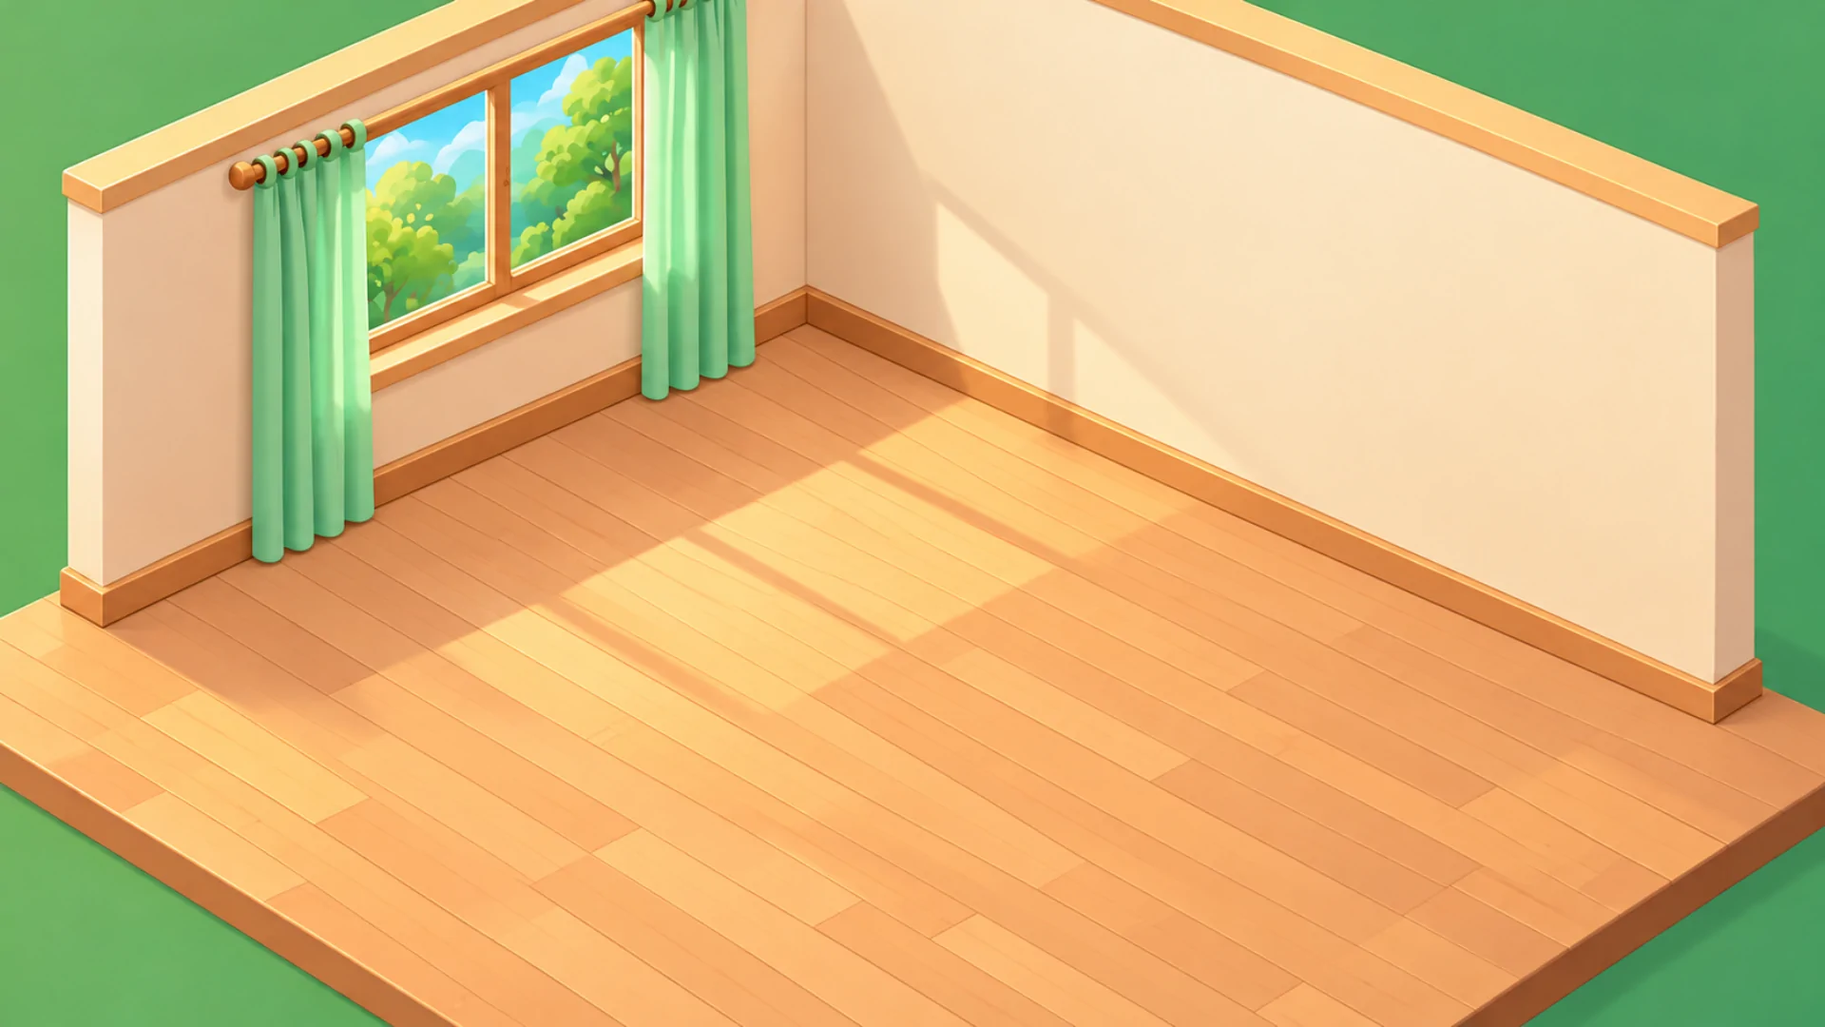
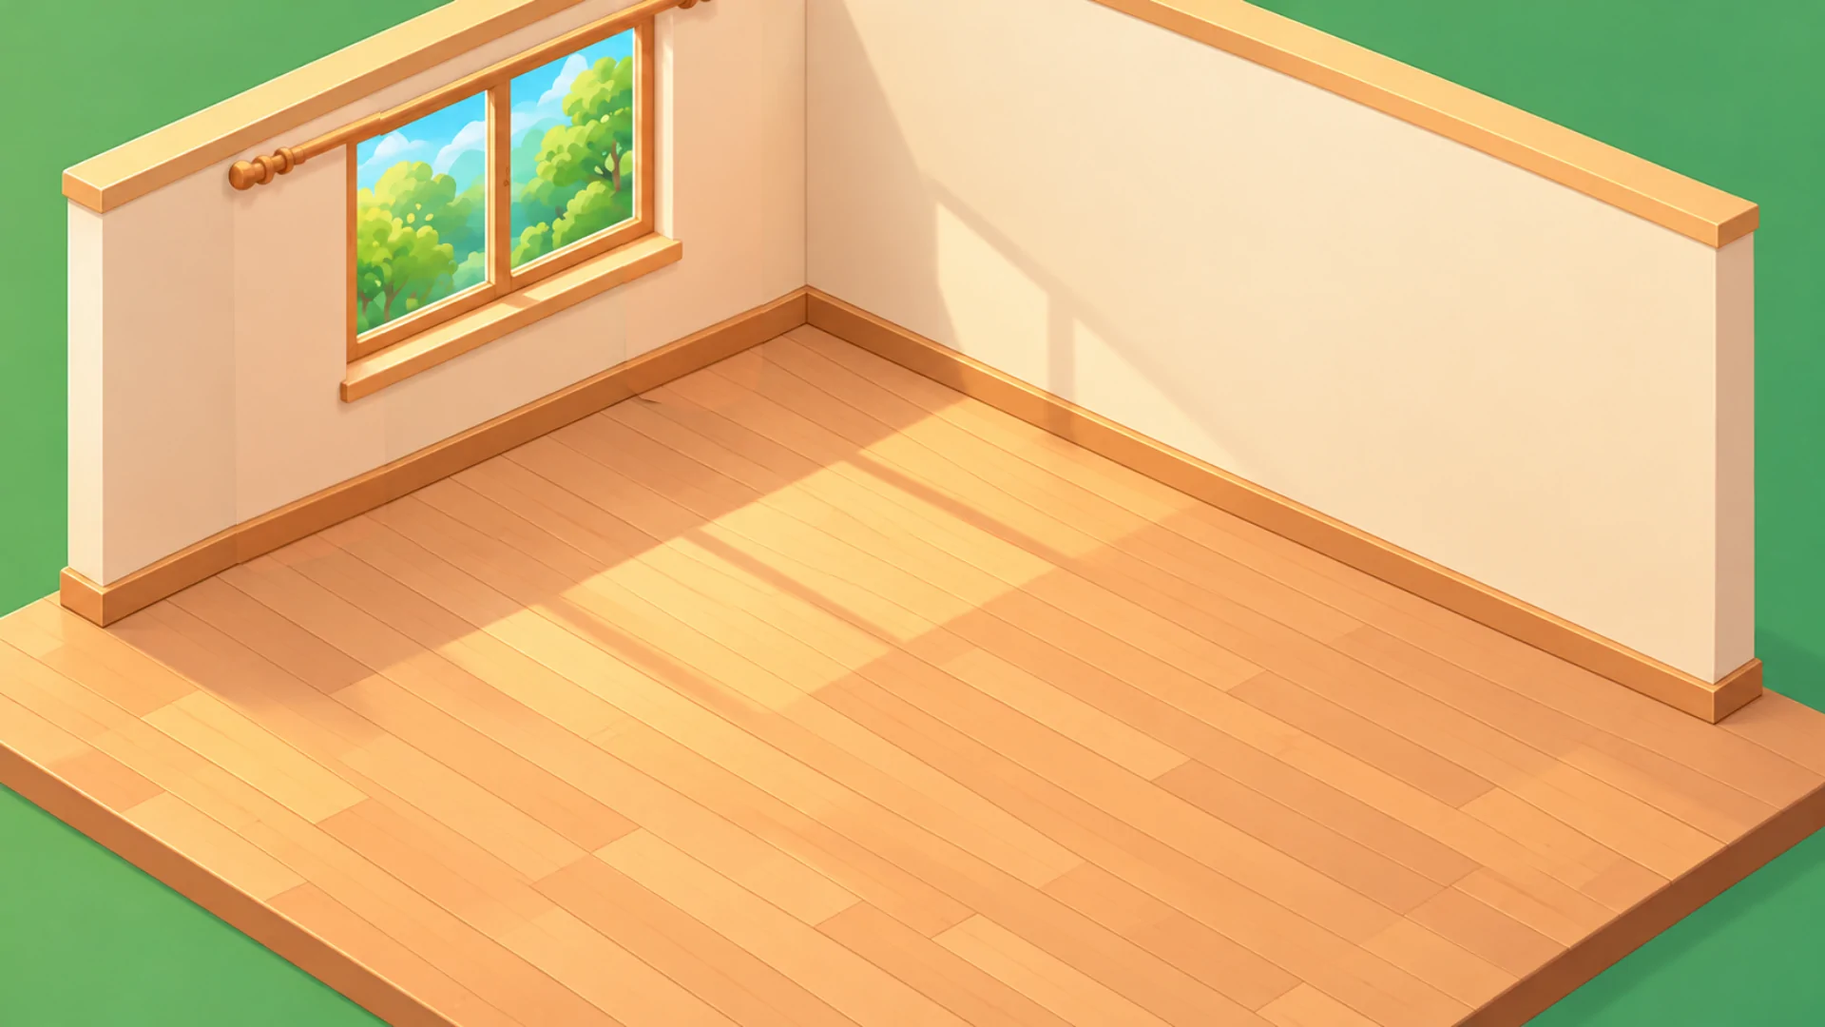
feat(salon-extra-slots): pięć nowych miejsc w salonie (p3)
Test-first: zmienione i nowe piny (kolejność zadań M-R4, wygląd domyślny,
curtains jako klucz żywy, 38 plików, 129 gwiazdek) najpierw czerwone, potem
dane salonu (11 miejsc, 12 zadań), teksty, grafika z salon-v2 i
balance.loader.totalMs 50 s.

Claude-Session: https://claude.ai/code/session_011rYDdndJ68X2GH1ESV8u4M

Changed region(s): [[0.125, 0.0917, 0.2188, 0.55], [0.3438, 0.0, 0.4375, 0.3972]]

diff --git a/tests/roomsData.test.ts b/tests/roomsData.test.ts
@@ -22,20 +22,17 @@ describe('every room in ROOMS', () => {
         expect([...listed].sort()).toEqual(Object.keys(ROOMS).sort());
     });
 
-    it('has one furniture task per slot, whole costs of 5-15 stars that never fall, the first within one clean round', () => {
+    it('has one furniture task per slot, whole costs of 5-15 stars, the first within one clean round', () => {
         for (const room of rooms) {
             const slotIds = room.slots.map((s) => s.id);
             expect(new Set(slotIds).size, room.id).toBe(slotIds.length);
             const bought = room.tasks.flatMap((t) => (t.kind === 'slot' ? [t.slot] : []));
             expect([...bought].sort(), room.id).toEqual([...slotIds].sort());
             expect(new Set(room.tasks.map((t) => t.id)).size, room.id).toBe(room.tasks.length);
-            let previous = 0;
             for (const { cost } of room.tasks) {
                 expect(Number.isInteger(cost), room.id).toBe(true);
                 expect(cost, room.id).toBeGreaterThanOrEqual(5);
                 expect(cost, room.id).toBeLessThanOrEqual(15);
-                expect(cost, room.id).toBeGreaterThanOrEqual(previous);
-                previous = cost;
             }
             expect(room.tasks[0]?.cost ?? 0, room.id).toBeLessThanOrEqual(cleanRound);
         }
@@ -64,7 +61,9 @@ describe('every room in ROOMS', () => {
                 expect(l + w, p.id).toBeLessThanOrEqual(p.width);
                 expect(t + h, p.id).toBeLessThanOrEqual(p.height);
                 expect(p.x + l, p.id).toBeGreaterThanOrEqual(0);
-                expect(p.y + t, p.id).toBeGreaterThanOrEqual(0);
+                // Only the curtains may reach above the scene (pack curtainEdit.note); at least half stays inside.
+                if (p.id === 'curtains') expect(p.y + t + h / 2, p.id).toBeGreaterThanOrEqual(0);
+                else expect(p.y + t, p.id).toBeGreaterThanOrEqual(0);
                 expect(p.x + l + w, p.id).toBeLessThanOrEqual(GAME_WIDTH);
                 expect(p.y + t + h, p.id).toBeLessThanOrEqual(GAME_HEIGHT);
                 expect(p.anchor[0], p.id).toBeLessThanOrEqual(p.width);
@@ -89,10 +88,10 @@ describe('every room in ROOMS', () => {
 });
 
 describe('salon data', () => {
-    it('is the renovation stage first, then six furniture tasks, one per slot', () => {
-        expect(SALON.slots).toHaveLength(6);
-        expect(SALON.decor).toHaveLength(4);
-        expect(SALON.tasks).toHaveLength(7);
+    it('is the renovation stage first, then one furniture task per slot', () => {
+        expect(SALON.slots).toHaveLength(11);
+        expect(SALON.decor).toHaveLength(1);
+        expect(SALON.tasks).toHaveLength(12);
         expect(SALON.tasks[0]).toMatchObject({ kind: 'stage', label: 'renovate' });
         for (const task of SALON.tasks.slice(1)) expect(task.kind).toBe('slot');
         expect(SALON.slots.every((s) => s.variants.length === 3)).toBe(true);
@@ -103,14 +102,29 @@ describe('salon data', () => {
         expect(ROOMS[FIRST_ROOM]).toBe(SALON);
     });
 
-    it('costs 71 stars in all (about ten clean rounds), pacing documented for the tuning slice', () => {
-        // 5, 7, 9, 10, 12, 13, 15: author decision 6 of S-16a; the pace is tuned in S-17.
-        expect(SALON.tasks.map((t) => t.cost)).toEqual([5, 7, 9, 10, 12, 13, 15]);
-        expect(SALON.tasks.reduce((sum, t) => sum + t.cost, 0)).toBe(71);
+    it('costs 129 stars in all, pacing documented for the tuning slice', () => {
+        // 5, 7, 9, 10, 12, 13, 15 (S-16a) then 8, 10, 12, 13, 15 (S-16d); the pace is tuned in S-17.
+        expect(SALON.tasks.map((t) => t.cost)).toEqual([5, 7, 9, 10, 12, 13, 15, 8, 10, 12, 13, 15]);
+        expect(SALON.tasks.reduce((sum, t) => sum + t.cost, 0)).toBe(129);
     });
 
     it('keeps the order of the first tasks stable: new tasks are only ever appended (saved rooms count positions)', () => {
         expect(SALON.tasks.slice(0, 7).map((t) => t.id)).toEqual(['renovate', 'add-sofa', 'lay-rug', 'place-coffee-table', 'place-cabinet', 'place-armchair', 'hang-frames']);
+    });
+
+    // M-R4: a later slice appends to this literal and never edits an earlier entry (saved rooms count positions).
+    it('M-R4: the task id order is append-only', () => {
+        expect(SALON.tasks.map((t) => t.id)).toEqual([
+            'renovate', 'add-sofa', 'lay-rug', 'place-coffee-table', 'place-cabinet', 'place-armchair', 'hang-frames',
+            'hang-curtains', 'hang-shelf', 'swap-lamp', 'swap-plant', 'swap-pouf',
+        ]);
+    });
+
+    it('shows the old look of exactly the lamp, left plant and pouf until they are bought', () => {
+        const withDefault = SALON.slots.filter((s) => s.shownBeforePurchase !== undefined).map((s) => s.id);
+        expect(withDefault.sort()).toEqual(['lamp-table', 'plant-left', 'pouf']);
+        for (const s of SALON.slots) if (withDefault.includes(s.id)) expect(s.shownBeforePurchase).toBe(0);
+        expect(SALON.decor.map((l) => l.id)).toEqual(['plant-right']);
     });
 
     // The v2 -> v3 step (core/migrations/legacySalon) tells an old save by a `chosen` key only the old list wrote (M-2).
@@ -124,7 +138,9 @@ describe('salon data', () => {
         }
         const renamedAway = new Set(Object.keys(LEGACY_SALON_V2.renames));
         const dropped = [...legacyIds].filter((id) => !renamedAway.has(id) && !slotIds.has(id));
-        expect(dropped.sort()).toEqual(['curtains', 'floor', 'lamp', 'plant', 'walls']);
+        expect(dropped.sort()).toEqual(['floor', 'lamp', 'plant', 'walls']);
+        // `curtains` is the one old-only key that is also a live slot id: safe, LIFT_V2_SALON runs only for version < 3.
+        expect(legacyIds.has('curtains') && slotIds.has('curtains')).toBe(true);
         // At least one old key must be foreign to the new room, or the marker could not tell an old save.
         expect(dropped.length + renamedAway.size).toBeGreaterThan(0);
     });

diff --git a/src/data/balance.ts b/src/data/balance.ts
@@ -14,7 +14,7 @@ export const balance = {
     parentSettings: { holdMs: 2000, moveTolerance: 30, weakestCount: 3, examplesPerSkill: 2 }, // PRD US-03 AC / FR-015: hold the settings icon 2 s (longer than a child's ordinary press), finger drift up to 30 game px (under half of the 96 px icon), preview shows the 3 weakest skills with up to 2 mistake examples each
     roomHold: { holdMs: 600, moveTolerance: 40 }, // PRD FR-018: a short hold on a furnished item opens the change panel; 600 ms is above the platform press thresholds (Android 400-500 ms, iOS 0.5 s) so a slow tap stays a tap, below the parent's 2 s; 40 game px is about 21 CSS px at 1024 wide, under half of a 96 px target
     roomHit: { minAlpha: 16 }, // S-16a: a touch counts on a furniture picture when its pixel has at least this alpha (0-255); the soft edge of a drop shadow stays below it, so a transparent corner of a big piece (the rug is 1111 px wide) lets the touch through to the piece below
-    loader: { timeoutMs: 12000, maxRetries: 1, slowAfterMs: 8000, totalMs: 45000 }, // audit H-2: a file the server never answers ends as a load error after this long, so the game starts on the stand-in boxes and "Obrazki" counts it missing instead of an endless loading bar; worst case per file (maxRetries + 1) x timeoutMs = 24 s, files load in parallel; the largest file is 289 KB, about 6 s at 50 KB/s on a cold first start, and after the first start the service worker serves them from its cache; audit A-1 / A-2: slowAfterMs shows the calm "still loading" line (a fast start ends within a few seconds, so 8 s means something is slow); totalMs is ONE limit for the whole boot load: the WebP pictures, the font and the 12 boot sound effects (M4A) are 1 922 277 B and the S-16c pack art adds 151 016 B, 2 073 293 B in all, about 41.5 s at 50 KB/s on a cold first start (the two loading pictures are queued first, so the screen shows them early) (more while the service worker install downloads the same files in parallel), S-16b adds 12 sound effects to the boot queue, measured 132 243 B as M4A or 81 144 B as OGG (Phaser picks one format per file, M4A first), the 48 s music loop is not in the queue (746 014 B M4A, 107 707 B OGG, loaded only when the parent turns the music on); it stays above the 24 s worst case of one file, so a single stalled file still ends by its own limit; past it the game starts with what loaded and stand-ins for the rest, and the next start reads the service worker cache
+    loader: { timeoutMs: 12000, maxRetries: 1, slowAfterMs: 8000, totalMs: 50000 }, // audit H-2: a file the server never answers ends as a load error after this long, so the game starts on the stand-in boxes and "Obrazki" counts it missing instead of an endless loading bar; worst case per file (maxRetries + 1) x timeoutMs = 24 s, files load in parallel; the largest file is 289 KB, about 6 s at 50 KB/s on a cold first start, and after the first start the service worker serves them from its cache; audit A-1 / A-2: slowAfterMs shows the calm "still loading" line (a fast start ends within a few seconds, so 8 s means something is slow); totalMs is ONE limit for the whole boot load: the WebP pictures, the font and the 12 boot sound effects (M4A) are 1 922 277 B and the S-16c pack art adds 151 016 B, 2 329 739 B in all after S-16d (the salon grew from 26 to 38 files, 1 233 242 to 1 489 688 B), about 46.6 s at 50 KB/s on a cold first start, so the limit is 50 s (the two loading pictures are queued first, so the screen shows them early) (more while the service worker install downloads the same files in parallel), S-16b adds 12 sound effects to the boot queue, measured 132 243 B as M4A or 81 144 B as OGG (Phaser picks one format per file, M4A first), the 48 s music loop is not in the queue (746 014 B M4A, 107 707 B OGG, loaded only when the parent turns the music on); it stays above the 24 s worst case of one file, so a single stalled file still ends by its own limit; past it the game starts with what loaded and stand-ins for the rest, and the next start reads the service worker cache
     save: { debounceMs: 500, loadTimeoutMs: 5000, writeTimeoutMs: 5000, slowLoadTimeoutMs: 20000, backupAttempts: 3, importMaxBytes: 1_000_000 }, // PRD FR-020 "short delay" after a change before the autosave writes (plan section 8); a kill inside the window loses at most the last ~0.5 s, purchases and round ends are saved at once; loadTimeoutMs: a cold IndexedDB open on an older iPad, the page is blank while it reads, so longer reads look like a crash; writeTimeoutMs: the same order as the read limit, a write or copy is tens of KB on an open connection, so a longer wait means the store hangs and the attempt is a named `timeout` failure; slowLoadTimeoutMs: the one longer wait on the SAME read after the first limit ("Poczekaj dłużej"), instead of a start counter: a cold open that needs more than 25 s in total is not a slow start but a broken store; backupAttempts: failed copies of the raw previous-version save (v1 before v2, v2 before v3) in one session after which the new version is written without the copy (a first round is about 7-12 save attempts, so 3 fit in the first minute of play; a child's progress outweighs the raw old bytes); importMaxBytes: the largest file the parent import reads (a v1 save with 200 history entries is tens of KB, so 1 MB is generous and still safe to parse in memory)
     arrows: { maxValue: 20, tableMin: 3, tableMax: 4 }, // S-14b: values on an arrow graph or table stay in 0..20, a table has 3-4 rows
     numberLine: { maxTicks: 31 }, // S-14b: at most 31 ticks on a drawn number line (0..30 every 1, 0..100 every 10 uses 11), so labels stay readable at 1920 wide

diff --git a/src/data/rooms.ts b/src/data/rooms.ts
@@ -3,12 +3,9 @@
 // Texture keys are `salon/<file id>`. RoomTaskDef.label is a key into pl.room.tasks.
 import type { LayerDef, RoomDef, RoomListEntry, SlotDef } from '../core/types';
 
-/** Lamp, plants and pouf: part of the renovated room, no task and no variants. */
+/** The right plant: part of the renovated room, no task and no variants. Lamp, left plant and pouf are slots that show their old look until bought (S-16d). */
 const decor: LayerDef[] = [
-    { id: 'lamp-table', x: 769, y: 94, width: 239, height: 415, z: 25, anchor: [120, 399], visibleRect: [16, 16, 207, 383], key: 'salon/lamp-table' },
-    { id: 'plant-left', x: 70, y: 230, width: 290, height: 445, z: 26, anchor: [145, 429], visibleRect: [16, 16, 258, 413], key: 'salon/plant-left' },
     { id: 'plant-right', x: 1648, y: 222, width: 244, height: 539, z: 35, anchor: [122, 523], visibleRect: [16, 16, 212, 507], key: 'salon/plant-right' },
-    { id: 'pouf', x: 458, y: 736, width: 278, height: 218, z: 60, anchor: [139, 202], visibleRect: [16, 16, 246, 186], key: 'salon/pouf' },
 ];
 
 const slots: SlotDef[] = [
@@ -18,6 +15,11 @@ const slots: SlotDef[] = [
     { id: 'cabinet', x: 293, y: 226, width: 512, height: 363, z: 20, anchor: [256, 347], visibleRect: [16, 16, 480, 331], variants: ['salon/cabinet', 'salon/cabinet-mint', 'salon/cabinet-cream'] },
     { id: 'armchair', x: 248, y: 554, width: 399, height: 361, z: 40, anchor: [200, 345], visibleRect: [16, 16, 367, 329], variants: ['salon/armchair', 'salon/armchair-mint', 'salon/armchair-sunny'] },
     { id: 'wall-frames', x: 1055, y: 15, width: 634, height: 425, z: 5, anchor: [317, 409], visibleRect: [16, 16, 602, 393], variants: ['salon/wall-frames', 'salon/wall-frames-meadow', 'salon/wall-frames-sky'] },
+    { id: 'curtains', x: 232, y: -70, width: 590, height: 695, z: 3, anchor: [295, 679], visibleRect: [16, 16, 558, 663], variants: ['salon/curtains-leaf', 'salon/curtains-cream', 'salon/curtains-botanical'] },
+    { id: 'wall-shelf', x: 355, y: 177, width: 440, height: 242, z: 18, anchor: [220, 226], visibleRect: [16, 16, 408, 210], variants: ['salon/shelf-oak', 'salon/shelf-mint', 'salon/shelf-arch'] },
+    { id: 'lamp-table', x: 769, y: 94, width: 239, height: 415, z: 25, anchor: [120, 399], visibleRect: [16, 16, 207, 383], variants: ['salon/lamp-table', 'salon/lamp-wicker', 'salon/lamp-flower'], shownBeforePurchase: 0 },
+    { id: 'plant-left', x: 70, y: 230, width: 290, height: 445, z: 26, anchor: [145, 429], visibleRect: [16, 16, 258, 413], variants: ['salon/plant-left', 'salon/plant-fern', 'salon/plant-ficus'], shownBeforePurchase: 0 },
+    { id: 'pouf', x: 458, y: 736, width: 278, height: 218, z: 60, anchor: [139, 202], visibleRect: [16, 16, 246, 186], variants: ['salon/pouf', 'salon/pouf-knit', 'salon/pouf-oak'], shownBeforePurchase: 0 },
 ];
 
 export const SALON: RoomDef = {
@@ -36,6 +38,11 @@ export const SALON: RoomDef = {
         { kind: 'slot', id: 'place-cabinet', slot: 'cabinet', label: 'placeCabinet', cost: 12 },
         { kind: 'slot', id: 'place-armchair', slot: 'armchair', label: 'placeArmchair', cost: 13 },
         { kind: 'slot', id: 'hang-frames', slot: 'wall-frames', label: 'hangFrames', cost: 15 },
+        { kind: 'slot', id: 'hang-curtains', slot: 'curtains', label: 'hangCurtains', cost: 8 },
+        { kind: 'slot', id: 'hang-shelf', slot: 'wall-shelf', label: 'hangShelf', cost: 10 },
+        { kind: 'slot', id: 'swap-lamp', slot: 'lamp-table', label: 'swapLamp', cost: 12 },
+        { kind: 'slot', id: 'swap-plant', slot: 'plant-left', label: 'swapPlant', cost: 13 },
+        { kind: 'slot', id: 'swap-pouf', slot: 'pouf', label: 'swapPouf', cost: 15 },
     ],
 };
 

diff --git a/src/data/pl.ts b/src/data/pl.ts
@@ -323,8 +323,13 @@ export const pl = {
             placeCabinet: 'Postaw komodę',
             placeArmchair: 'Postaw fotel',
             hangFrames: 'Powieś obrazki',
+            hangCurtains: 'Powieś zasłony',
+            hangShelf: 'Powieś półkę',
+            swapLamp: 'Wymień lampę',
+            swapPlant: 'Wymień roślinę',
+            swapPouf: 'Wymień pufę',
         },
-        // Nominative captions of the furniture, keyed by SlotDef.id (also the words of the "Hasło z wyników" minigame).
+        // Nominative captions of the furniture, keyed by SlotDef.id (the minigame words are a fixed list in src/data/minigames.ts).
         slots: {
             sofa: 'sofa',
             rug: 'dywan',
@@ -332,6 +337,11 @@ export const pl = {
             cabinet: 'komoda',
             armchair: 'fotel',
             'wall-frames': 'obrazki',
+            curtains: 'zasłony',
+            'wall-shelf': 'półka',
+            'lamp-table': 'lampa',
+            'plant-left': 'roślina',
+            pouf: 'pufa',
         },
         // Names of the three variants of a slot (the art pack's manifest labels), keyed by SlotDef.id; index = variant.
         variants: {
@@ -341,13 +351,15 @@ export const pl = {
             cabinet: ['Dębowa', 'Miętowa', 'Kremowa'],
             armchair: ['Kremowy', 'Miętowy', 'Słoneczny'],
             'wall-frames': ['Botaniczne', 'Łąka', 'Niebo'],
+            curtains: ['Listkowe', 'Lniane', 'Botaniczne'],
+            'wall-shelf': ['Dębowa', 'Miętowa', 'Z łukiem'],
+            'lamp-table': ['Klasyczna', 'Wiklinowa', 'Kwiatowa'],
+            'plant-left': ['Monstera', 'Paproć', 'Fikus'],
+            pouf: ['Pikowana', 'Pleciona', 'Na nóżkach'],
         } as Record<string, readonly [string, string, string]>,
         // Fixed decoration of the renovated room (stand-in captions only), keyed by LayerDef.id.
         decor: {
-            'lamp-table': 'lampa',
-            'plant-left': 'roślina',
             'plant-right': 'roślina',
-            pouf: 'pufa',
         } as Record<string, string>,
         // Digits only, so no numeral agreement is needed.
         short: (have: number, need: number) => `masz ${have}/${need}`,

diff --git a/tests/legacySalonMigration.test.ts b/tests/legacySalonMigration.test.ts
@@ -4,7 +4,7 @@
 import { readFileSync } from 'node:fs';
 import { describe, expect, it } from 'vitest';
 import { LEGACY_SALON_V2, LIFT_V2_SALON, SALON_V3_TARGET } from '../src/core/migrations/legacySalon';
-import { MIGRATIONS, decodeSave } from '../src/core/save';
+import { MIGRATIONS, decodeSave, encodeSave, freshSession } from '../src/core/save';
 import { SALON } from '../src/data/rooms';
 
 const fixture = (name: string): Record<string, unknown> =>
@@ -123,5 +123,22 @@ describe('the frozen tables', () => {
     it('L-1: the v3 target is the first 7 tasks of the live salon (it may grow at the end, the snapshot may not)', () => {
         expect(SALON_V3_TARGET).toEqual(SALON.tasks.slice(0, 7).map((t) => ({ slot: t.kind === 'slot' ? t.slot : null, cost: t.cost })));
         expect(SALON_V3_TARGET).toHaveLength(7);
+        expect(SALON.tasks.length).toBeGreaterThan(SALON_V3_TARGET.length);
+    });
+
+    it('a v3 save with chosen.curtains is decoded unchanged (curtains is a live slot id since S-16d)', () => {
+        const session = freshSession('salon');
+        session.rooms.salon = { tasksDone: 8, chosen: { sofa: 0, curtains: 1 } };
+        const r = decodeSave(JSON.parse(JSON.stringify(encodeSave(session))));
+        expect(r.kind).toBe('ok');
+        if (r.kind !== 'ok') return;
+        expect(r.session.rooms.salon).toEqual({ tasksDone: 8, chosen: { sofa: 0, curtains: 1 } });
+    });
+
+    it('a lifted v2 salon never carries curtains', () => {
+        for (let n = 0; n <= OLD_SLOTS.length; n++) {
+            const salon = salonOf(v2With(oldSalon(n))) as { chosen: Record<string, number> };
+            expect(Object.keys(salon.chosen), String(n)).not.toContain('curtains');
+        }
     });
 });

diff --git a/tests/roomArt.test.ts b/tests/roomArt.test.ts
@@ -32,8 +32,8 @@ const filesUnder = (dir: string, base = ''): string[] =>
     );
 
 describe('room art table', () => {
-    it('has 26 entries, each a WebP file of the tabled size', () => {
-        expect(ROOM_ART).toHaveLength(26);
+    it('has 38 entries, each a WebP file of the tabled size', () => {
+        expect(ROOM_ART).toHaveLength(38);
         for (const art of ROOM_ART) {
             expect(webpSize(readFileSync(join(PUBLIC, art.url))), art.url).toEqual({ width: art.width, height: art.height });
         }
@@ -62,8 +62,8 @@ describe('room art table', () => {
         }
     });
 
-    it('weighs at most 1 400 000 bytes in total', () => {
+    it('weighs at most 1 550 000 bytes in total', () => {
         const total = ROOM_ART.reduce((sum, art) => sum + statSync(join(PUBLIC, art.url)).size, 0);
-        expect(total).toBeLessThanOrEqual(1_400_000);
+        expect(total).toBeLessThanOrEqual(1_550_000);
     });
 });

diff --git a/tests/e2e/salon-art.spec.ts b/tests/e2e/salon-art.spec.ts
@@ -138,7 +138,7 @@ test('#16 with the salon pictures missing the room stays playable on stand-ins a
     await expect.poll(async () => (await snapshot(page)).roomArtHealth?.total ?? 0).toBeGreaterThan(0);
     const health = (await snapshot(page)).roomArtHealth!;
     expect(health.missing).toBe(health.total);
-    expect(health.total).toBe(26);
+    expect(health.total).toBe(38);
 
     await tapTarget(page, 'taskButton');
     await expect.poll(async () => (await room(page)).room.tasksDone).toBe(1);

diff --git a/tests/roomMiniature.test.ts b/tests/roomMiniature.test.ts
@@ -15,6 +15,7 @@ describe('miniaturePieces', () => {
         const k = keys({ tasksDone: 1, chosen: {} });
         expect(k[0]).toBe(SALON.scene.after);
         expect(k).toContain(SALON.decor[0].key);
+        for (const id of ['lamp-table', 'plant-left', 'pouf']) expect(k).toContain(SALON.slots.find((s) => s.id === id)!.variants[0]);
         expect(k).not.toContain(SALON.scene.furnishingsBefore);
         expect(k).not.toContain(SALON.scene.shadows);
     });

diff --git a/tests/e2e/final-art-room-done.spec.ts b/tests/e2e/final-art-room-done.spec.ts
@@ -8,7 +8,7 @@ import { passWelcome } from './support/welcome';
 import { answerRight, answerWrong, phaseIs, screenIs, silenceSpeech, snapshot, tapScene, tapTarget, targets } from './support/hook';
 import { SALON } from '../../src/data/rooms';
 
-test.setTimeout(120_000);
+test.setTimeout(180_000);
 test.use({ serviceWorkers: 'block' });
 
 const room = async (page: Page) => {

diff --git a/tests/e2e/room-change.spec.ts b/tests/e2e/room-change.spec.ts
@@ -16,7 +16,7 @@ const { holdMs, moveTolerance } = balance.roomHold;
 const STAGE_COST = 5;
 const SOFA_COST = 7;
 
-test.setTimeout(120_000);
+test.setTimeout(180_000);
 
 const room = async (page: Page) => {
     const state = await snapshot(page);
